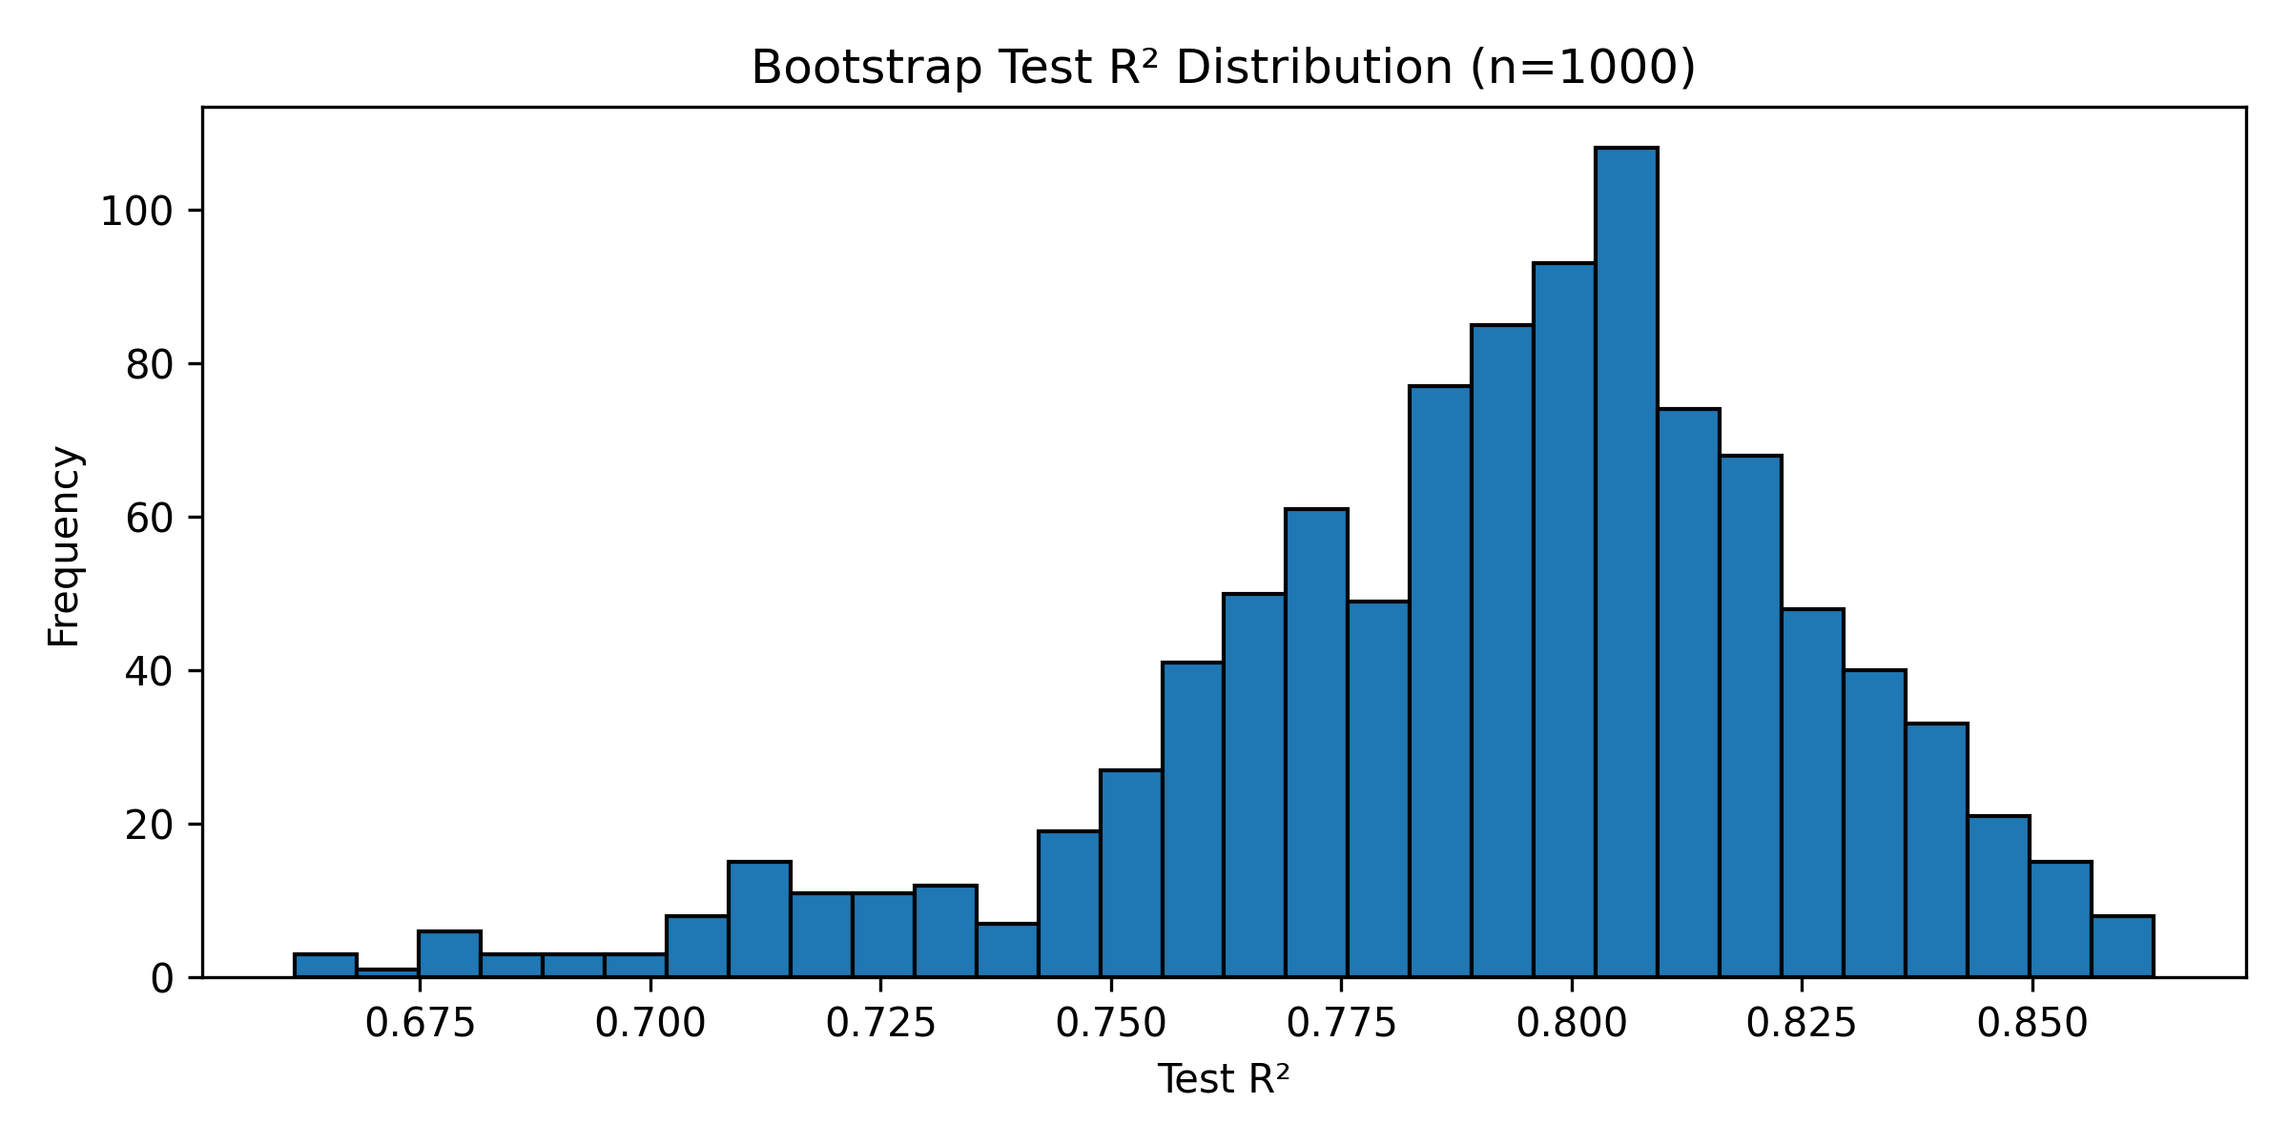
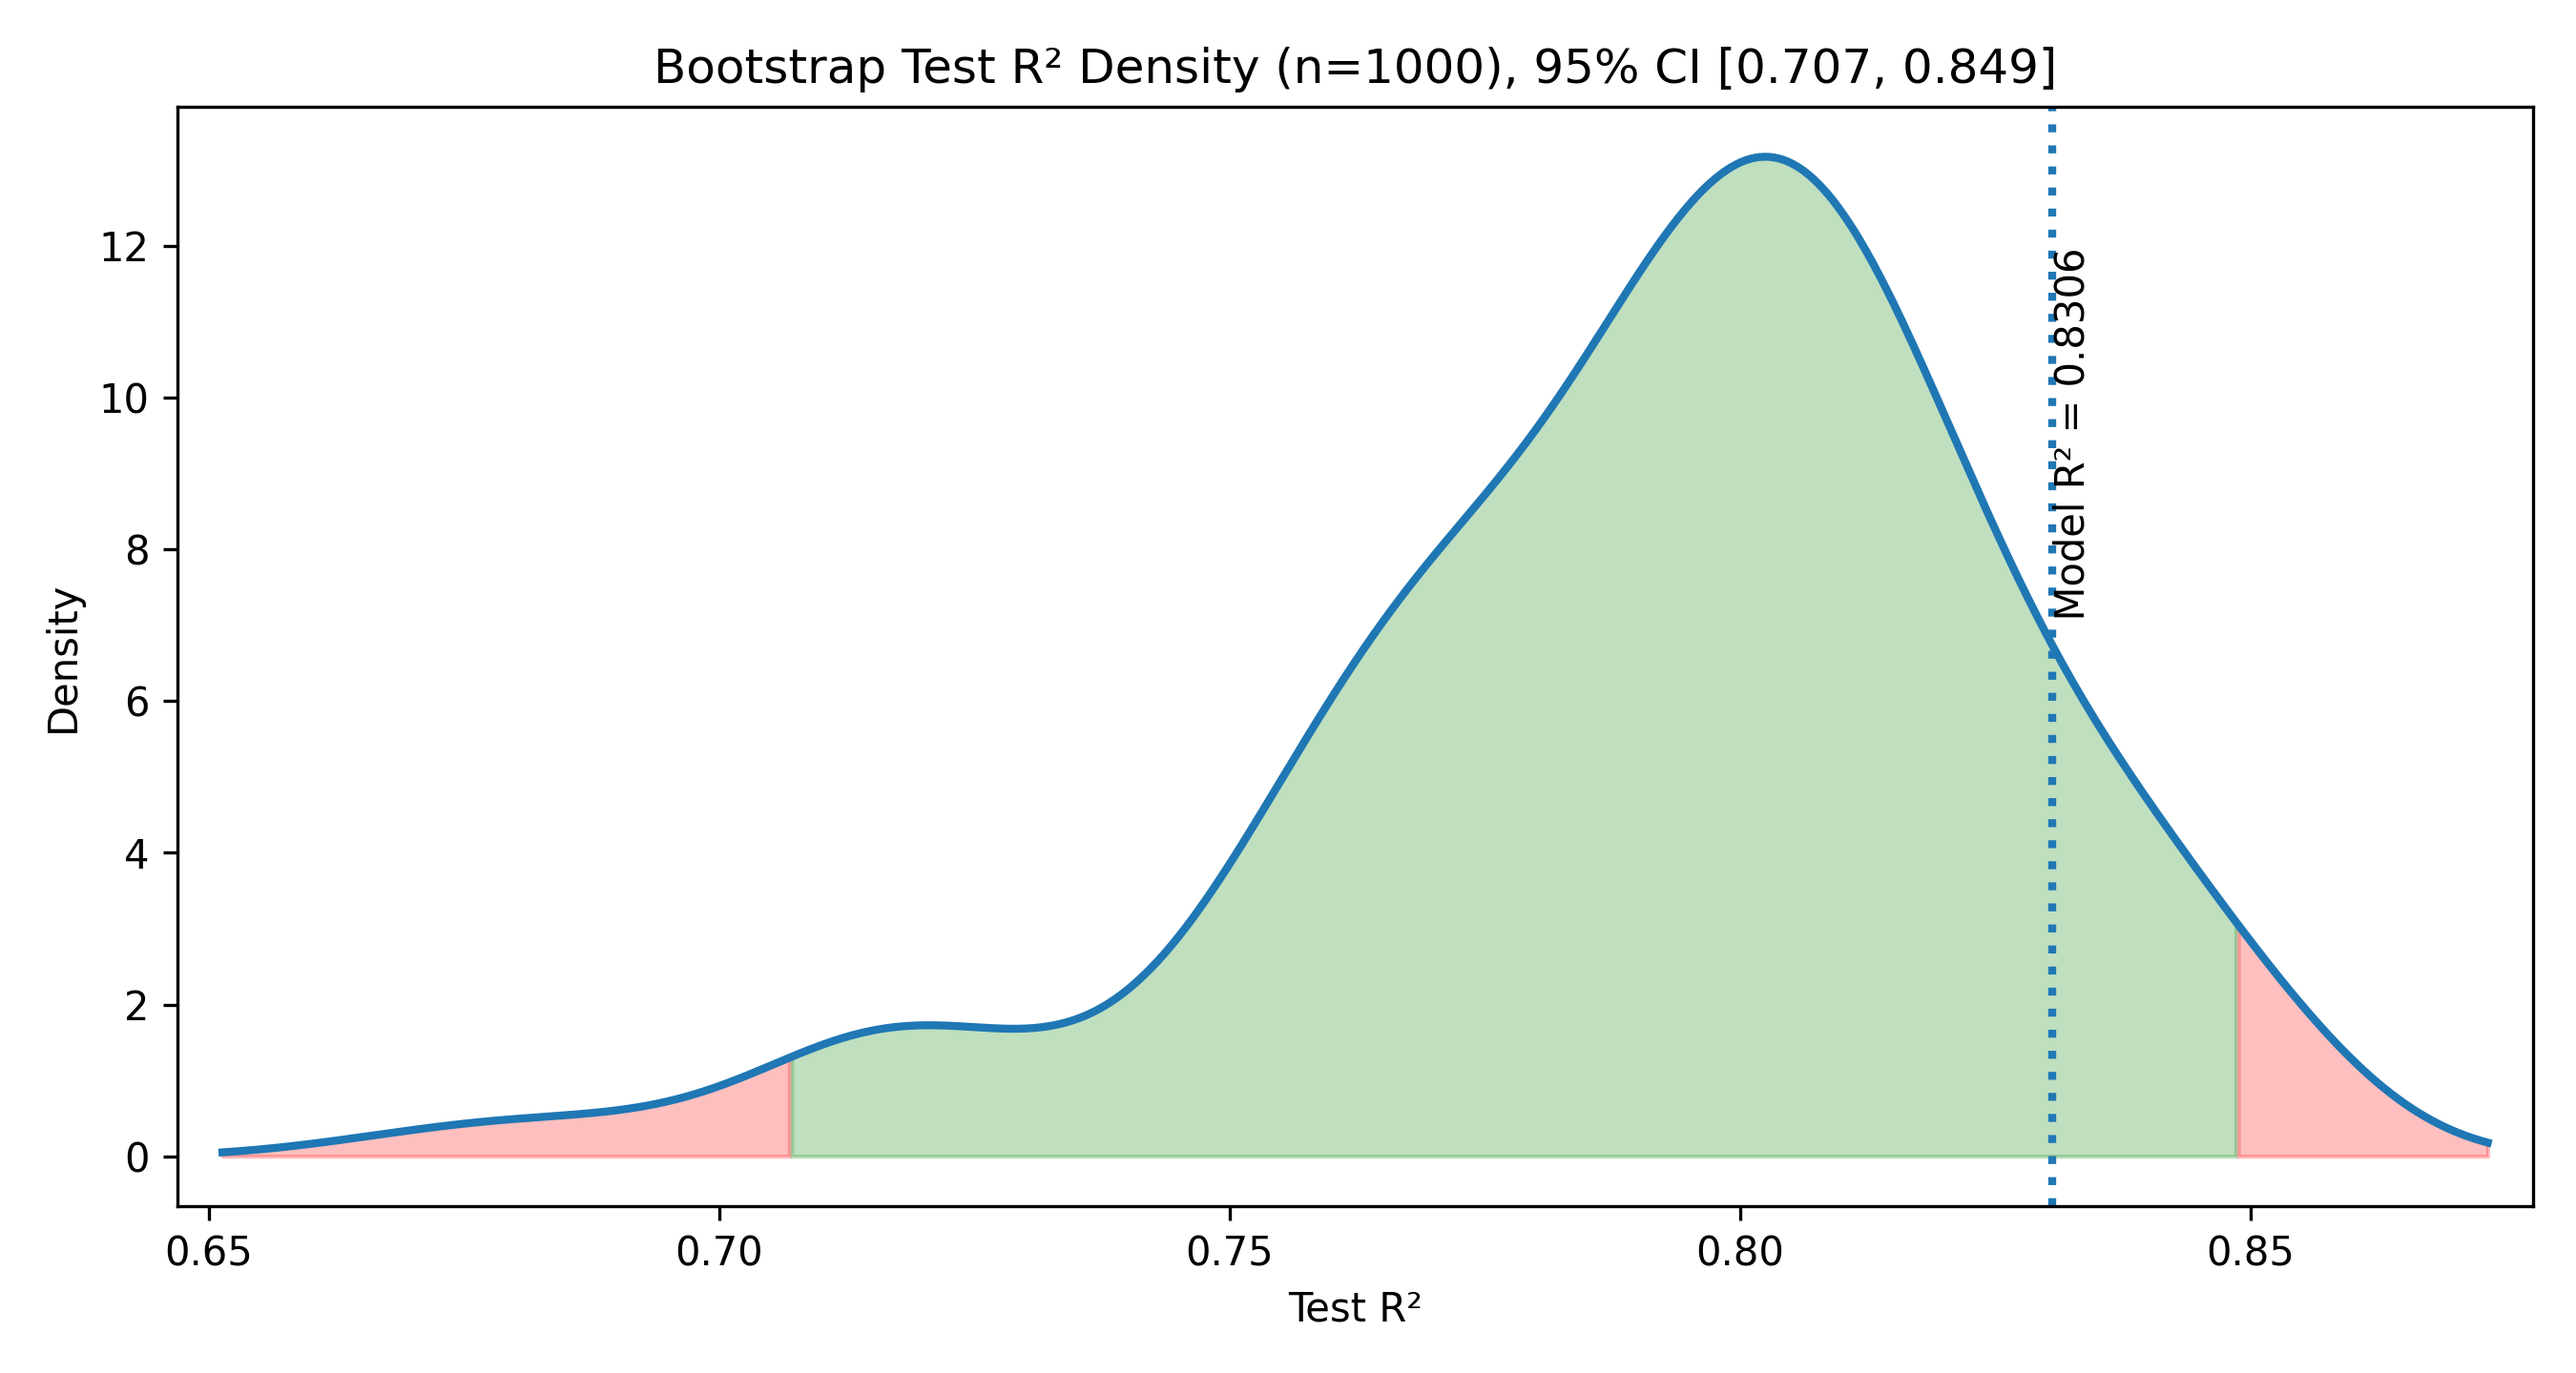
bootstrap hist graph changed to curve

Changed region(s): [[0.0, 0.0308, 1.0, 0.925], [0.5, 0.925, 0.5625, 0.9558]]

diff --git a/scripts/bootstrap_model.py b/scripts/bootstrap_model.py
@@ -5,8 +5,10 @@ Script: bootstrap_model.py
 
 Description:
     Performs bootstrap resampling to assess the stability of a Lasso model predicting
-    global case fatality rate (CFR) from genomic features and writes **only** the histogram
-    of the bootstrap test-set R² distribution to `figures/bootstrap_r2_histogram.png`.
+    global case fatality rate (CFR) from genomic features and writes **only** a smooth
+    KDE "bell-curve" of the bootstrap test-set R² distribution to
+    `figures/bootstrap_r2_histogram.png`. The plot shades the central 95% interval
+    in green, the tails in red, and shows a vertical dotted line at the model R² = 0.8306.
 
 Usage:
     python3 bootstrap_model.py
@@ -21,6 +23,7 @@ import matplotlib.pyplot as plt
 from sklearn.linear_model import Lasso
 from sklearn.preprocessing import StandardScaler
 from sklearn.metrics import r2_score
+from sklearn.neighbors import KernelDensity
 from joblib import Parallel, delayed
 import multiprocessing
 import sys
@@ -33,6 +36,7 @@ TEST_CSV     = "../lasso_training_data/feature_matrix_test.csv"
 ALPHA        = 0.000174    # Lasso regularization strength
 N_BOOTSTRAPS = 1000        # Number of bootstrap iterations
 SEED         = 42          # Base random seed
+MODEL_R2     = 0.8306      # Annotated vertical line
 
 def get_output_dir():
     this_path = os.path.abspath(__file__)
@@ -59,6 +63,7 @@ def load_and_scale(train_path, test_path):
     X_test  = df_test[feat_cols].values
     y_test  = df_test["Global CFR"].values
 
+    # with_mean=False to be CSR/COO-friendly if sparse; safe for dense too.
     scaler = StandardScaler(with_mean=False)
     X_train_s = scaler.fit_transform(X_train)
     X_test_s  = scaler.transform(X_test)
@@ -77,22 +82,72 @@ def _bootstrap_iteration(i, X_train_s, y_train, X_test_s, y_test, alpha, seed):
     return r2_score(y_test, model.predict(X_test_s))
 
 # ---------------------------
-# Plot histogram only
+# Plot smooth KDE with CI shading
 # ---------------------------
-def plot_histogram(r2_values, out_dir):
+def plot_density_with_ci(r2_values, out_dir):
     os.makedirs(out_dir, exist_ok=True)
-    arr = np.array(r2_values)
-    hist_path = os.path.join(out_dir, "bootstrap_r2_histogram.png")
+    arr = np.asarray(r2_values, dtype=float)
+    out_path = os.path.join(out_dir, "bootstrap_r2_histogram.png")  # keep same name to replace
 
-    plt.figure(figsize=(8, 4))
-    plt.hist(arr, bins=30, edgecolor='black')
+    # KDE grid
+    x_min, x_max = np.min(arr), np.max(arr)
+    pad = 0.05 * (x_max - x_min if x_max > x_min else 1.0)
+    x_grid = np.linspace(x_min - pad, x_max + pad, 1000)[:, None]
+
+    # Bandwidth via Silverman's rule-of-thumb (robust-ish)
+    std = np.std(arr, ddof=1) if len(arr) > 1 else 0.1
+    n = len(arr)
+    bw = 1.06 * std * (n ** (-1/5)) if n > 1 and std > 0 else 0.1
+
+    kde = KernelDensity(kernel="gaussian", bandwidth=bw)
+    kde.fit(arr[:, None])
+    log_dens = kde.score_samples(x_grid)
+    y = np.exp(log_dens)  # density
+
+    # Empirical 95% interval from percentiles
+    lo, hi = np.percentile(arr, [2.5, 97.5])
+
+    # Build masks for shading
+    x = x_grid.ravel()
+    inside = (x >= lo) & (x <= hi)
+    left_tail = x < lo
+    right_tail = x > hi
+
+    plt.figure(figsize=(9, 4.8))
+
+    # Plot the smooth density curve
+    plt.plot(x, y, linewidth=2)
+
+    # Shade tails (red) and central 95% (green)
+    # Left tail
+    if np.any(left_tail):
+        plt.fill_between(x[left_tail], y[left_tail], 0, alpha=0.25, color="red")
+    # Central 95%
+    if np.any(inside):
+        plt.fill_between(x[inside], y[inside], 0, alpha=0.25, color="green")
+    # Right tail
+    if np.any(right_tail):
+        plt.fill_between(x[right_tail], y[right_tail], 0, alpha=0.25, color="red")
+
+    # Draw vertical dotted line at the model R² with label
+    plt.axvline(MODEL_R2, linestyle=":", linewidth=2)
+    # Place a small label near the top of the curve at that x
+    # Find y-value at MODEL_R2 (nearest point)
+    idx_near = np.argmin(np.abs(x - MODEL_R2))
+    y_near = y[idx_near]
+    plt.text(MODEL_R2, y_near, f"  Model R² = {MODEL_R2:.4f}", rotation=90, va="bottom", ha="left")
+
+    # Axes/labels
     plt.xlabel("Test R²")
-    plt.ylabel("Frequency")
-    plt.title(f"Bootstrap Test R² Distribution (n={len(arr)})")
+    plt.ylabel("Density")
+    plt.title(f"Bootstrap Test R² Density (n={len(arr)}), 95% CI [{lo:.3f}, {hi:.3f}]")
+
+    # Nice margins
+    plt.margins(x=0.02, y=0.05)
     plt.tight_layout()
-    plt.savefig(hist_path, dpi=300)
+    plt.savefig(out_path, dpi=300)
     plt.close()
-    print(f"Saved histogram to {hist_path}")
+    print(f"Saved density plot to {out_path}")
 
 # ---------------------------
 # Main
@@ -103,7 +158,7 @@ def main():
 
     print(f"Running {N_BOOTSTRAPS} bootstrap iterations...")
     start = time.time()
-    n_jobs = max(1, multiprocessing.cpu_count() - 1)
+    n_jobs = max(1, multiprocessing.cpu_count() - 1)  # keep cores parallelization
     r2_values = Parallel(n_jobs=n_jobs)(
         delayed(_bootstrap_iteration)(i, X_train_s, y_train, X_test_s, y_test, ALPHA, SEED)
         for i in range(N_BOOTSTRAPS)
@@ -111,7 +166,7 @@ def main():
     elapsed = time.time() - start
     print(f"Completed in {elapsed:.1f}s.")
 
-    plot_histogram(r2_values, OUT_DIR)
+    plot_density_with_ci(r2_values, OUT_DIR)
 
 if __name__ == "__main__":
     main()
